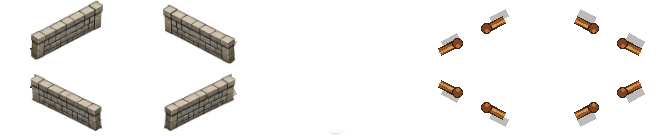
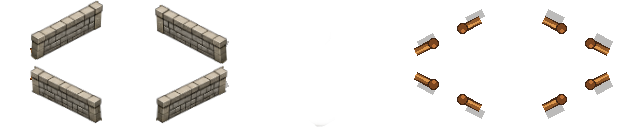
feat: standardize tile atlases to 64-multiple dimensions

diff --git a/src/assets/tiles/README.md b/src/assets/tiles/README.md
@@ -6,7 +6,15 @@ Map tiles are grouped by Tiled layer purpose. Legacy top-down atlases use a
 Transparent overlay atlases use PNG alpha so they can be layered in Tiled
 without baking in a background.
 
-`grass-basic.png` is the current default 128x64 isometric ground tile.
+`grass.png` is the current default isometric ground atlas:
+- 6 frames
+- frame size `128x64`
+- atlas layout `3 columns x 2 rows`
+- no spacing between frames (`spacing=0`)
+- atlas size `384x128` (both dimensions are multiples of 64)
+
+`grass-basic.png` remains the deterministic base source tile used to derive
+all `grass.png` variants while preserving exact diamond geometry and angle.
 `palisade-simple.png` is a deterministic isometric 10-frame atlas:
 - `palisadeDiagDown`
 - `palisadeDiagUp`
@@ -19,8 +27,8 @@ without baking in a background.
 - `palisadeGateDownSideB`
 - `palisadeGateUpSideB`
 
-Each frame is `128x64`, with `8px` transparent atlas spacing to avoid texture
-bleeding between columns and rows. The atlas is arranged as `5 columns x 2 rows`, where
+Each frame is `128x64`. The atlas is arranged as `5 columns x 2 rows`, with
+`spacing=0` and final size `640x128` (both dimensions are multiples of 64), where
 the second row is the opposite-side lighting variant (`SideB`) for the same
 geometry. The palisade frames follow the canonical 2:1 isometric slope and
 include thicker wood depth/detail treatment. Gate frames replace one generated
